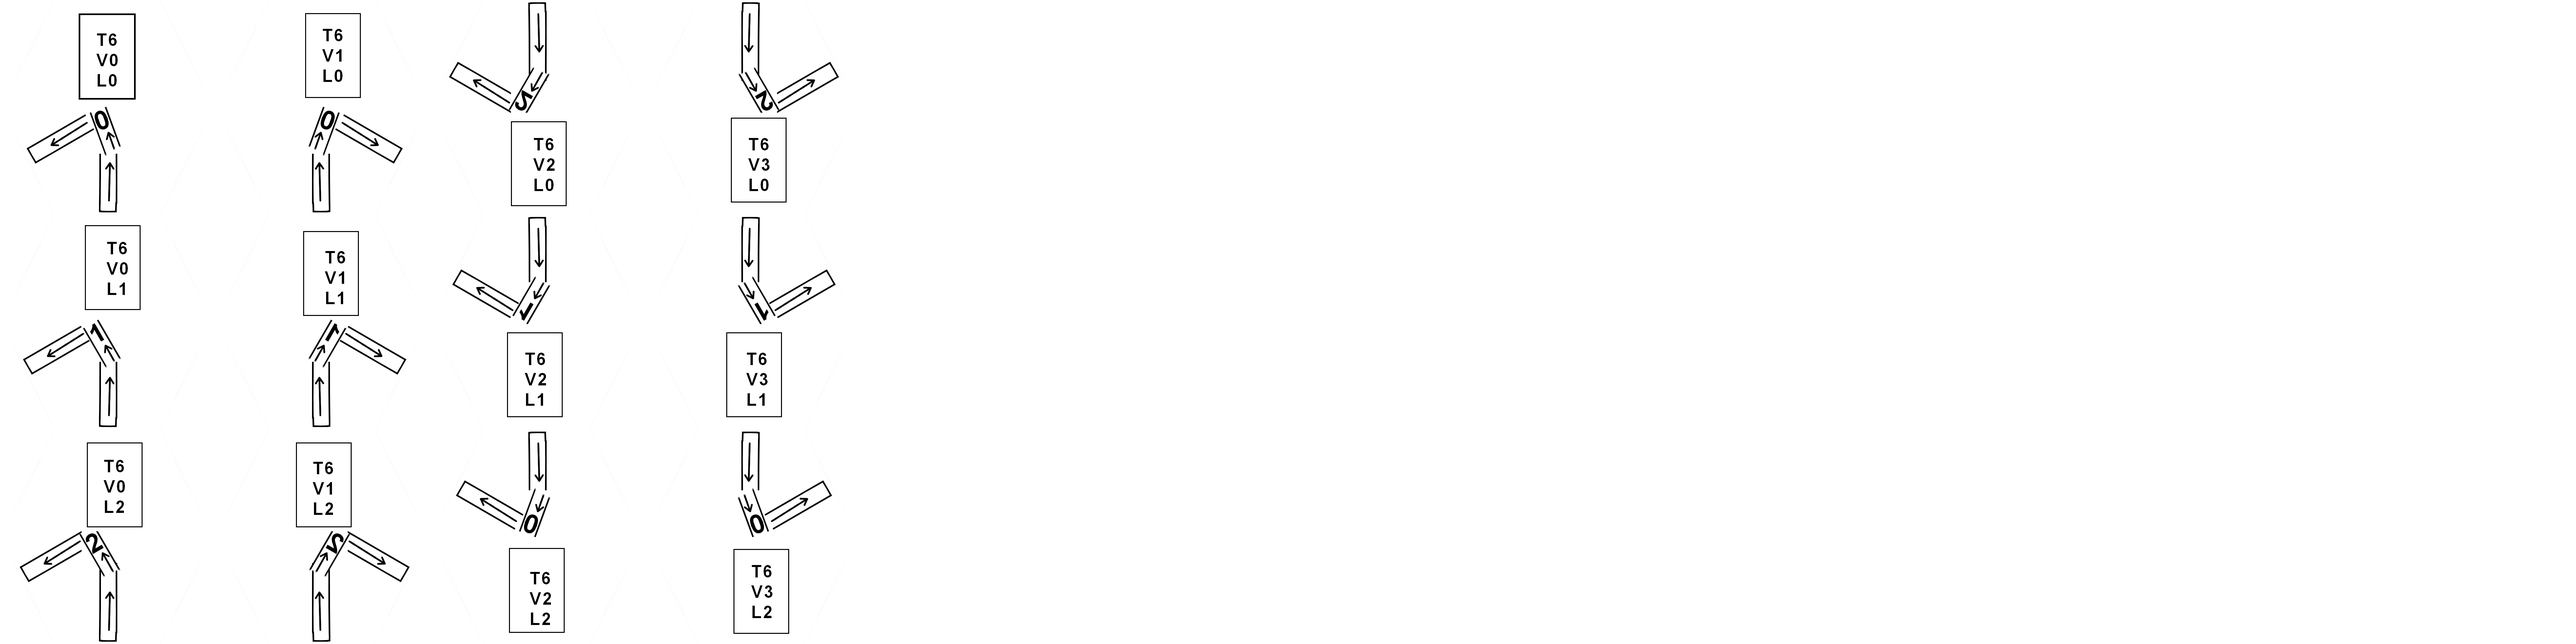
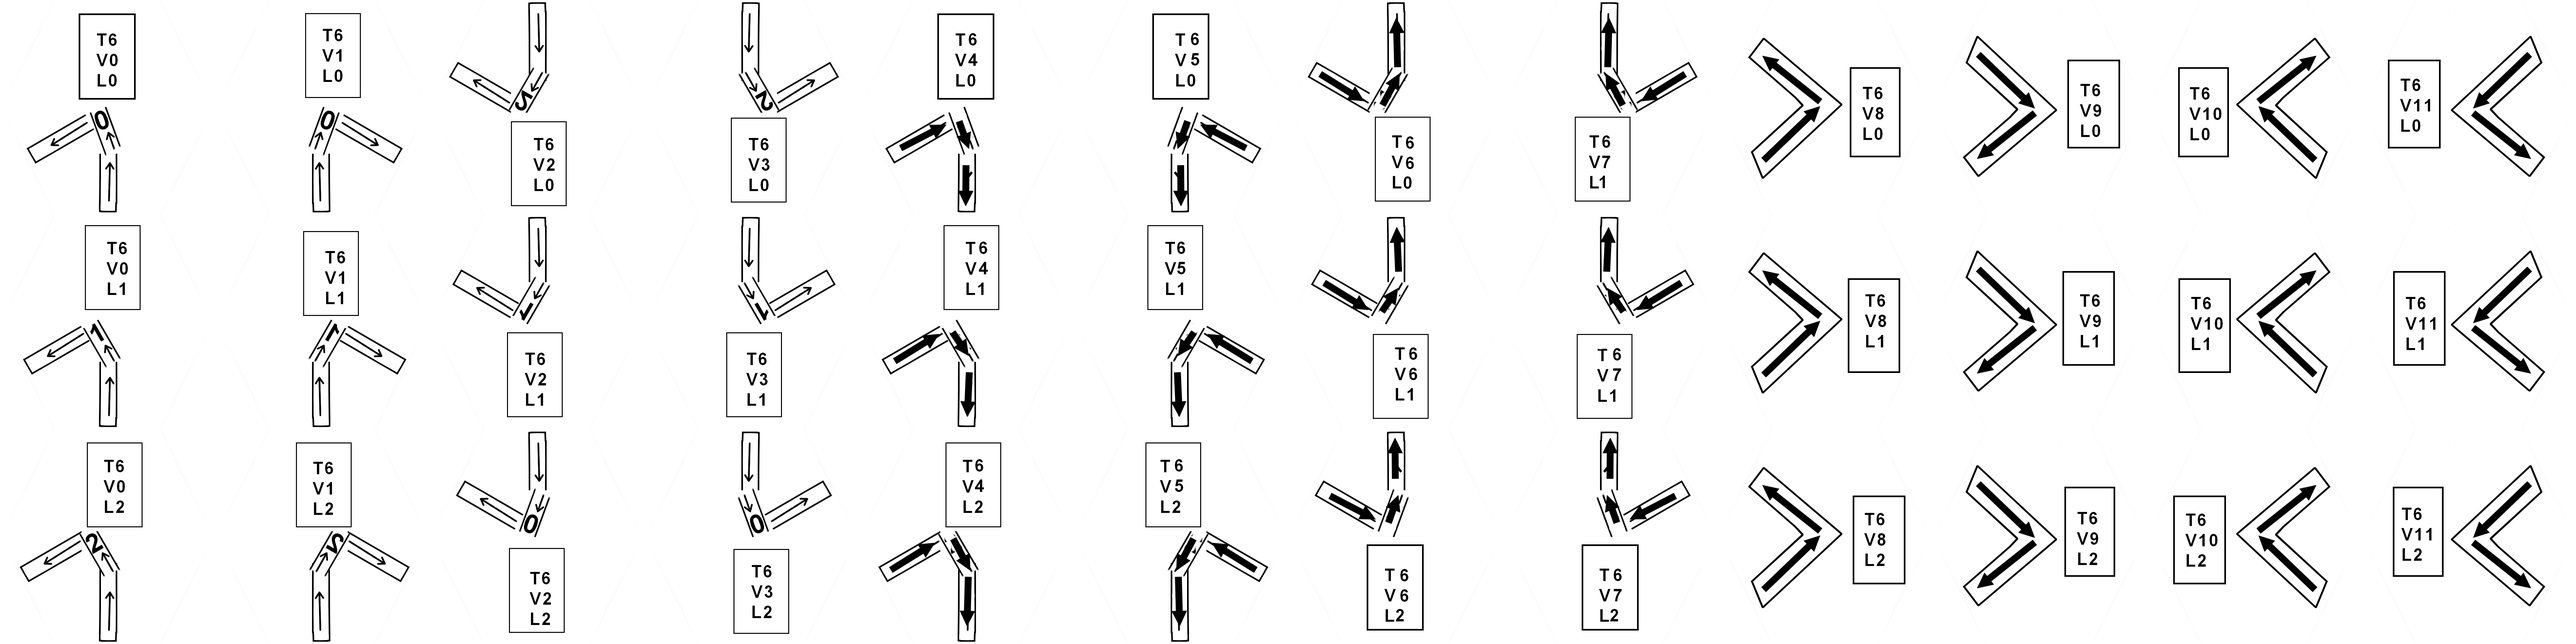
Orientation des Pipelines OK !!!!! Trop cool, mais reste à checker que on fait pas des boucles sur les co pour pas co un pipeline en entree et sortie d'un batiment

diff --git a/src/Structure.cpp b/src/Structure.cpp
@@ -164,7 +164,7 @@ void Structure::remplirStock()
 /*******************************************************/
 
 /**
- * @brief Check si la connexion entre les 2 Structures
+ * @brief Check si la connexion entre les 2 Structures, test si c'est la structure que l'on veut connectée qui peut être connectée.
  *
  * @param Structure * - *s*
  * @param bool - *commeSortie*
@@ -178,17 +178,22 @@ bool Structure::checkConnexionPossible(Structure *s, bool commeSortie)
     if (s == nullptr)
         return false;
 
-    // Test sortie
-    // Test si la connexion en sortie est libre
-    if (commeSortie && this->getASortie() == true)
-        return false; // Ya déjà une sortie
-    if (!commeSortie && s->getASortie() == true)
-        return false; // Ya déja une sortie sur l'autre structure
-
+    // Test si ya de la place en entrée sur s
+    if (commeSortie &&
+        s->getNbEntrees() >= s->getTailleStockEntree())
+    { // Ya plus de place en entrée
+        return false;
+    }
+    // Test si y a déjà une sortie sur s
+    if (!commeSortie &&
+        s->getASortie() == true)
+    { // La structure a déjà une sortie
+        return false;
+    }
     // Verifier que la Structure est bien adajacente
     bool structAdjacente = false;
     for (int dir = DIRECTION::NORD;
-         dir < DIRECTION::NORDEST; ++dir)
+         dir <= DIRECTION::NORDEST; ++dir)
     { // Check position adjacente dans dir
         structAdjacente |=
             (positionCaseVoisine(_position, dir) == (Vector2i)s->getPositionCarte());
@@ -198,9 +203,6 @@ bool Structure::checkConnexionPossible(Structure *s, bool commeSortie)
     if (!structAdjacente)
         return false;
 
-    // Test sur les deux Structures il ya
-    // une qui peut être la sortie
-    // return !(this->getASortie() && s->getASortie());
     return true;
 }
 
@@ -209,19 +211,22 @@ bool Structure::checkConnexionPossible(Structure *s, bool commeSortie)
  *
  * @param Structure * - *s*
  * @param bool - *commeSortie = true*
+ * @param bool - *connexionAutreSens = false*
  *
  * @return true - *Si la Structure a été connectée en tant que sortie ou entrée*
  * @return false - *Pas de possible de connecter*
  */
-bool Structure::connecterStructure(Structure *s, bool commeSortie)
+bool Structure::connecterStructure(Structure *s, bool commeSortie, bool connexionAutreSens)
 {
-
     // Connexion possible :
     // Structure adjacente
     // Sortie ok sur la structure qui doit l'être
     // Nb de connexion ok
-    if (!checkConnexionPossible(s, commeSortie))
+    if (!connexionAutreSens && !checkConnexionPossible(s, commeSortie))
+    {
+        cout << "ICI pos :" << s->getPositionCarte().y << endl;
         return false;
+    }
 
     // Test si la structure est déjà connectée
     if (find(_listStructuresConnectees.begin(),
@@ -231,18 +236,22 @@ bool Structure::connecterStructure(Structure *s, bool commeSortie)
         return false;
     }
 
+    // TESTER SI CA NE CREER PAS UNE BOUCLE DANS LE "GRAPHE"
+    // EN GROS REMONTER LE CHEMIN COMME SI ON AVAIT CO
+    // ET VERIFIER QU'ON RETOMBE PAS SUR L'OBJET THIS
+
     // Ajoute a la liste des structures connectées
     this->_listStructuresConnectees.push_back(s);
 
     // Set la sortie
     if (commeSortie && this->setSortie(s))
     { // Ajoute la connexion comme une entrée dans l'autre sens
-        s->connecterStructure(this, false);
+        cout << "connexion autre sens : " << s->connecterStructure(this, false, true) << endl;
     }
     else
     { // La connexion sera une entrée
       // Ajoute la connexion comme une sortie dans l'autre sens
-        s->connecterStructure(this, true);
+        s->connecterStructure(this, true, true);
     }
     return true;
 }

diff --git a/src/Pipeline.cpp b/src/Pipeline.cpp
@@ -41,7 +41,8 @@ Pipeline::Pipeline(const Vector2u &pos)
       _zoomTexture{0, 0,
                    (int)_offsetTextureX,
                    (int)_offsetTextureY},
-      _orientation{NON_CONNECTE, A_A}
+      _orientation{NULLDIRECTION, NULLDIRECTION,
+                   NON_CONNECTE, A_A}
 {
     ++_nbPipelines;
 }
@@ -124,6 +125,8 @@ void Pipeline::init() {}
 
 void Pipeline::dessiner(float scaleSprite)
 {
+    // cerr << "type : " << _orientation.type << endl;
+    // cerr << "variant : " << _orientation.variant << endl;
     setSpriteTexture(0);
     Structure::dessiner(scaleSprite);
 }
@@ -151,8 +154,8 @@ void Pipeline::setSpriteTexture(uint tick)
 
     _sprite->setTextureRect(_zoomTexture);
 
-    cerr << "type : " << _orientation.type << endl;
-    cerr << "variant : " << _orientation.variant << endl;
+    // cerr << "type : " << _orientation.type << endl;
+    // cerr << "variant : " << _orientation.variant << endl;
 }
 
 /*******************************************************/
@@ -160,6 +163,8 @@ void Pipeline::setSpriteTexture(uint tick)
 
 /**
  * @brief Check si la connexion entre le Pipeline et une autre strucutre est possible (nb de connexion)
+ *
+ * @details Dans la méthode override, on regarde si la structrures peut avoir une connexion suplémentaire (sortie ou entrée). Puis dans la méthode Structure::checkConnexionPossible, on regarde si c'est la structure que l'on veut ajouter qui peut accepter une connexion supplémentaire (entrée ou sortie).
  *
  * @param Structure * - *s*
  * @param bool - *commeSortie*
@@ -169,19 +174,19 @@ void Pipeline::setSpriteTexture(uint tick)
  */
 bool Pipeline::checkConnexionPossible(Structure *s, bool commeSortie)
 {
-    // Vérifie le nombre d'entrées
-    if (commeSortie)
-    {
-        // Faut que la structure a co ait des entrées libres
-        if (s->getNbEntrees() >= s->getTailleStockEntree())
-            return false; // Toutes les entrées prises
+    // Vérifie sortie est libre
+    if (commeSortie && _sortie != nullptr)
+    { // Ya déjà une structure en sortie
+        cout << "ICI" << endl;
+        return false;
+    } // Verifie entrée libre
+    else if (!commeSortie &&
+             this->getNbEntrees() >= this->getTailleStockEntree())
+    { // Toutes les entrées prises
+        cout << "LA" << endl;
+        return false;
     }
-    else // !commeSortie
-    {
-        // Faut que this ait des entrées de libres
-        if (this->getNbEntrees() >= this->getTailleStockEntree())
-            return false; // Toutes les entrées prises
-    }
+
     return Structure::checkConnexionPossible(s, commeSortie);
 }
 
@@ -191,7 +196,7 @@ bool Pipeline::checkConnexionPossible(Structure *s, bool commeSortie)
  * @brief Calcule l'orientation de Pipeline en fct des connexions dessus
  *
  */
-void Pipeline::updateOrientation()
+bool Pipeline::updateOrientation()
 {
     Vector2i posEntree = Vector2i{-1, -1};
     Vector2i posSortie = Vector2i{-1, -1};
@@ -207,5 +212,8 @@ void Pipeline::updateOrientation()
     DIRECTION dirEntree = positionOrigineDestToDirection((Vector2i)this->getPositionCarte(), posEntree);
     DIRECTION dirSortie = positionOrigineDestToDirection((Vector2i)this->getPositionCarte(), posSortie);
 
-    calculOrientation(dirEntree, dirSortie);
+    _orientation.dirEntree = dirEntree;
+    _orientation.dirSortie = dirSortie;
+
+    return calculOrientation(dirEntree, dirSortie);
 }

diff --git a/src/PipelineCalculOrientation.cpp b/src/PipelineCalculOrientation.cpp
@@ -1,6 +1,6 @@
 #include "Pipeline.hpp"
 
-void Pipeline::calculOrientation(
+bool Pipeline::calculOrientation(
     DIRECTION dirEntree, DIRECTION dirSortie)
 {
     // Par defaut
@@ -13,34 +13,36 @@ void Pipeline::calculOrientation(
     {
         _orientation.type = NON_CONNECTE;
         _orientation.variant = A_A;
-        return;
+        return true;
     }
 
     // ENTREE_ALL (juste une entrée)
     if (calculOrientationEntreeAll(dirEntree, dirSortie))
-        return;
+        return true;
 
     // ALL_SORTIE (juste une sortie)
     if (calculOrientationAllSortie(dirEntree, dirSortie))
-        return;
+        return true;
 
     // ANGLE_LARGE
     if (calculOrientationAngleLarge(dirEntree, dirSortie))
-        return;
+        return true;
 
     // ANGLE_ETROIT
     if (calculOrientationAngleEtroit(dirEntree, dirSortie))
-        return;
+        return true;
 
     // DROIT_VERTICAL
     if (calculOrientationDroitVertical(dirEntree, dirSortie))
-        return;
+        return true;
 
     // DROIT_OBLIQUE
     if (calculOrientationDroiteOblique(dirEntree, dirSortie))
-        return;
+        return true;
 
     cerr << "Erreur par d'orientation trouvée pour le Pipeline de direction et sens : " << dirEntree << "->" << dirSortie << endl;
+
+    return false;
 }
 
 /*******************************************************/
@@ -268,7 +270,7 @@ bool Pipeline::calculOrientationAngleEtroit(
         else if (dirSortie == DIRECTION::NORDEST)
         {
             _orientation.type = ANGLE_ETROIT;
-            _orientation.variant = SO_NE;
+            _orientation.variant = SE_NE;
         }
     }
     else if (dirEntree == DIRECTION::NORDOUEST)

diff --git a/src/Batiment.cpp b/src/Batiment.cpp
@@ -80,8 +80,9 @@ void Batiment::process() {}
 /*******************************************************/
 
 /**
- * @brief Check si la connexion entre les 2 Structures est possible, et si la structure peut être connectée au batiment
- * @todo Vérfier si la structure peut être connectée
+ * @brief Check si la connexion entre le Batiment et une autre strucutre est possible (nb de connexion)
+ *
+ * @details Dans la méthode override, on regarde si la structrures peut avoir une connexion suplémentaire (sortie ou entrée). Puis dans la méthode Structure::checkConnexionPossible, on regarde si c'est la structure que l'on veut ajouter qui peut accepeter une connexion supplémentaire (entrée ou sortie).
  *
  * @param Structure * - *s*
  * @param bool - *commeSortie*
@@ -105,14 +106,17 @@ bool Batiment::checkConnexionPossible(Structure *s, bool commeSortie)
             return false; // Toutes les entrées prises
     }
 
-    // Vérifier la compatibilité des strucutres connectées
+    // Vérifier la compatibilité des structures connectées
     if (typeid(*s) != typeid(Pipeline))
+    {
+        cout << "Pas un pipeline que l'on co a ce batiement" << endl;
         return false; // Co à autre chose que pipeline
-
+    }
     return Structure::checkConnexionPossible(s, commeSortie);
 }
 
-void Batiment::updateOrientation()
+bool Batiment::updateOrientation()
 {
     // Rien
+    return false;
 }

diff --git a/include/Pipeline.hpp b/include/Pipeline.hpp
@@ -36,6 +36,8 @@ extern string cheminFichierTexturesPipelines;
 
 struct Orientation_t
 {
+    DIRECTION dirEntree;
+    DIRECTION dirSortie;
     uint type;    // TEXTURE
     uint variant; // OFFSET_TEXTURE
 };
@@ -162,8 +164,8 @@ public:
 
     virtual bool checkConnexionPossible(Structure *s, bool commeSortie) override;
 
-    void updateOrientation() override;
-    void calculOrientation(DIRECTION dirEntree, DIRECTION dirSortie);
+    bool updateOrientation() override;
+    bool calculOrientation(DIRECTION dirEntree, DIRECTION dirSortie);
     bool calculOrientationEntreeAll(DIRECTION dirEntree, DIRECTION dirSortie);
     bool calculOrientationAllSortie(DIRECTION dirEntree, DIRECTION dirSortie);
     bool calculOrientationAngleLarge(DIRECTION dirEntree, DIRECTION dirSortie);

diff --git a/include/Structure.hpp b/include/Structure.hpp
@@ -74,7 +74,6 @@ public:
 
     virtual void dessiner(float scaleSprite) = 0;
     virtual void update();
-    virtual void updateOrientation() = 0;
 
     // Getter
     uint getIdStructure() const;
@@ -103,8 +102,9 @@ public:
     virtual void process() = 0;
 
     // Gestion des structures connectées
-    bool connecterStructure(Structure *s, bool commeSortie = true);
+    bool connecterStructure(Structure *s, bool commeSortie = true, bool connexionAutreSens = false);
     bool deconnecterStructure(Structure *s);
+    virtual bool updateOrientation() = 0;
 
     TYPE_RESSOURCE livrerStock();
     virtual void remplirStock();

diff --git a/src/Carte.cpp b/src/Carte.cpp
@@ -230,6 +230,11 @@ void Carte::dessiner()
     {
         for (uint x = 0; x < _nbColonnesGrille; ++x)
         {
+            // TEMPORAIRE de recalculer toutes les orientations à chaque dessin
+            if (_grille[y][x].getConstruction() != nullptr)
+            {
+                _grille[y][x].getConstruction()->updateOrientation();
+            }
             _grille[y][x].dessiner();
         }
     }

diff --git a/src/Manager.cpp b/src/Manager.cpp
@@ -328,6 +328,8 @@ bool Manager::integrationStructureVoisinage()
             // Dans tous les cas essaye d'ajouter comme entrée
             if (structAjoutee->connecterStructure(structsVoisines[k], false))
                 cerr << "Connexion Structure comme une entrée" << endl;
+            else
+                cerr << "Pas connectée comme une entrée" << endl;
         }
     }
 

diff --git a/include/Batiment.hpp b/include/Batiment.hpp
@@ -65,7 +65,7 @@ public:
 
     virtual void process();
 
-    void updateOrientation() override;
+    bool updateOrientation() override;
     virtual bool checkConnexionPossible(Structure *s, bool commeSortie) override;
 };
 
